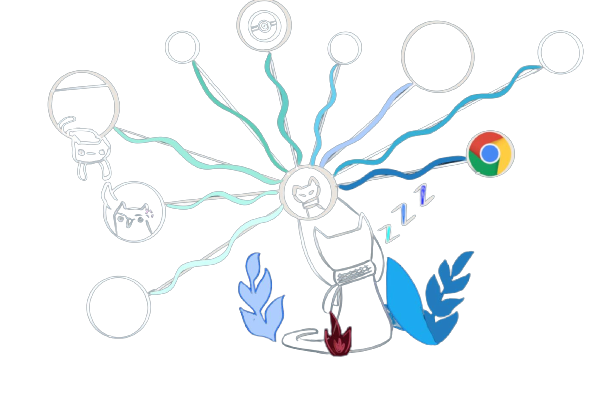
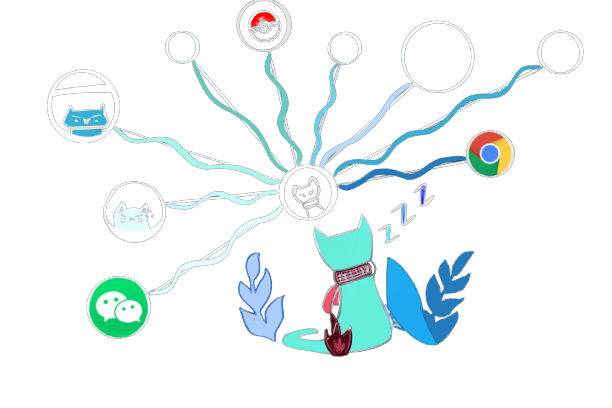
changed home page picture to the latest version

diff --git a/app/templates/main/home.html b/app/templates/main/home.html
@@ -41,7 +41,7 @@
     {% include "navbar.html" %}
     <br><br>
     <img id="homeBanner"
-         src="https://media.discordapp.net/attachments/951319765820002384/961047165935947786/unknown.png"
+         src="/static/images/imageHome.png"
          style="width:40%;float:left;">
     <div style="width:60%;float:left;">
         <p class="text-7xl text-gray-900 dark:text-white font-black "
